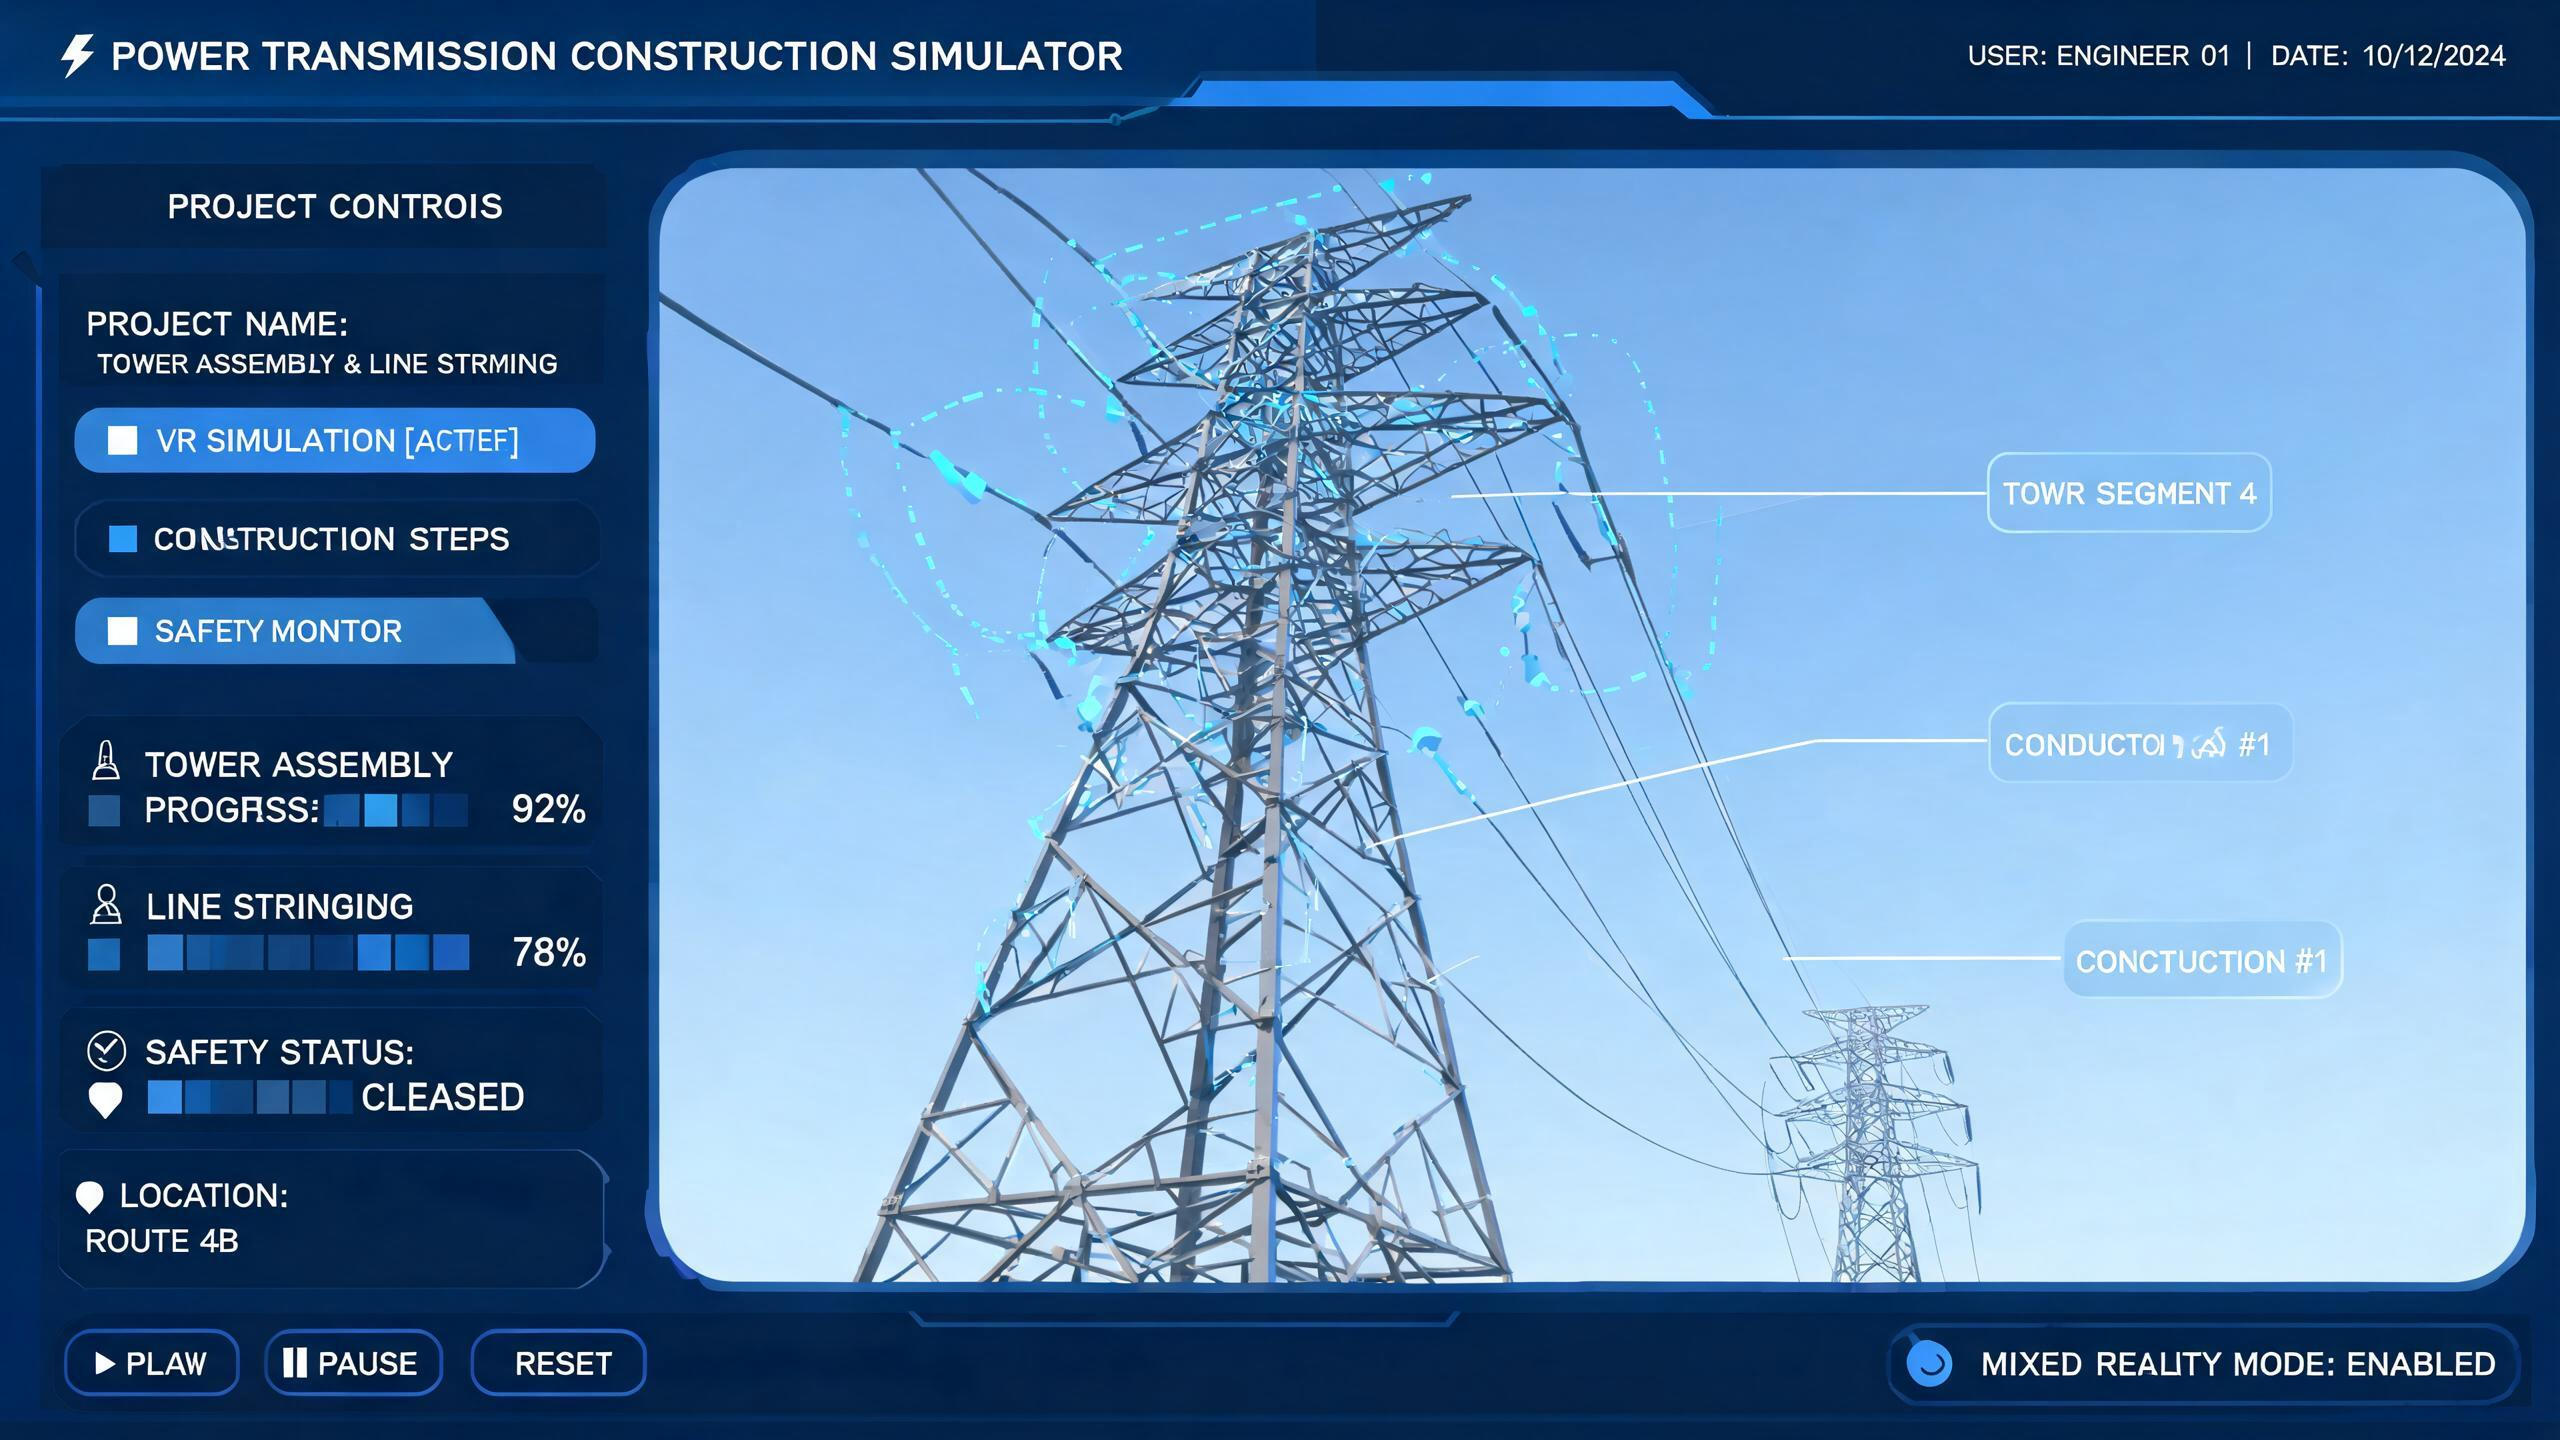
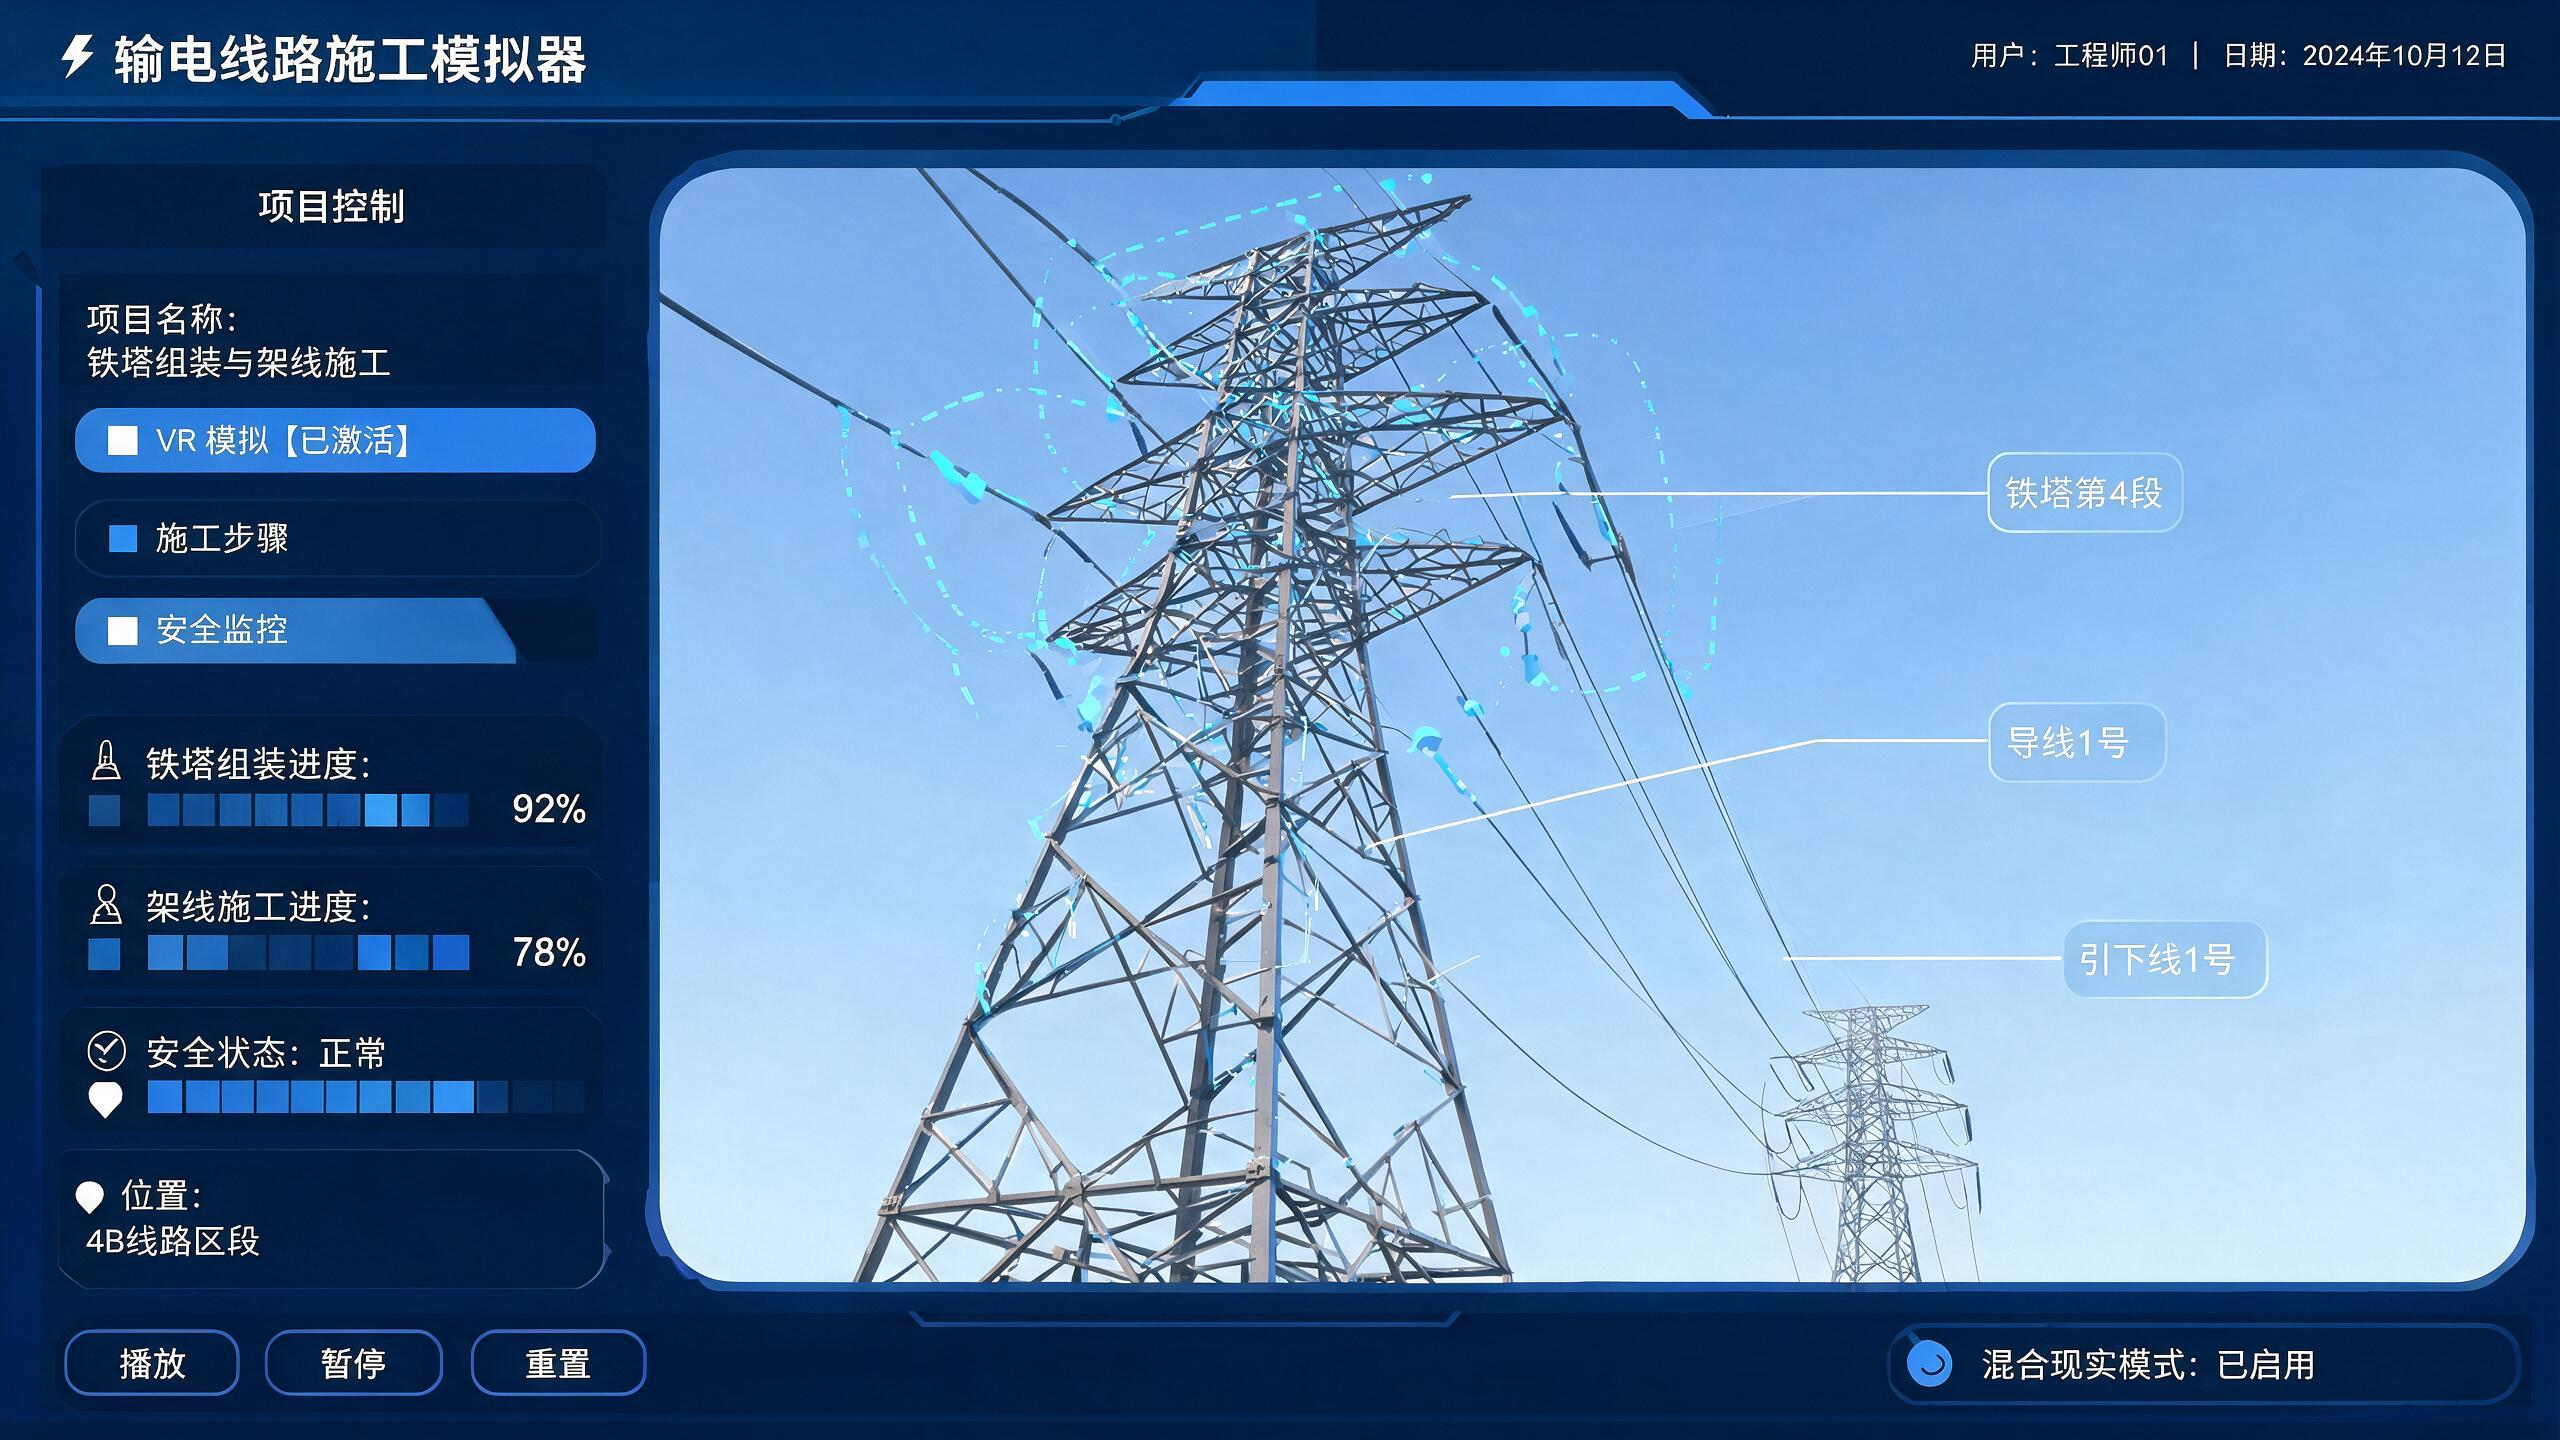
feat: 文鳐系列 8 张解决方案宣传图替换为纯中文 AI 生成图
- 使用 AI 提示词生成 2560x1440 高清专业暗色科技风产品宣传图（全部中文 UI）
- 替换图：solution_wind_om / wind_management / transport_v2 / solar_management
         / health_monitor / design_platform / control_center / construction_sim
- 修复施工仿真图标注：去除重复 2 号相线，改为 OPGW 复合地线 + 上①中②下③三相整洁标注
- app.py：挂载静态文件 /assets/ + 增加 /、/admin 路由，确保 zn-promo.html 可直接访问
- 修复 zn-promo.html 页面问题
- .gitignore：新增忽略本地图片处理脚本、备份图、截图等中间产物

diff --git a/zn-promo/zn-promo.html b/zn-promo/zn-promo.html
@@ -401,6 +401,13 @@
     .product-tab .tab-icon {
       font-size: 10px; color: var(--accent-gold); transition: all 0.3s;
     }
+    .product-tab img.tab-icon {
+      width: 18px; height: 18px; object-fit: contain; display: inline-block;
+      filter: brightness(0) invert(1);
+    }
+    .product-tab.active img.tab-icon {
+      filter: brightness(0) invert(0);
+    }
     .product-tab:hover {
       border-color: var(--accent-cyan); color: var(--accent-cyan);
       box-shadow: 0 0 20px rgba(34, 211, 238, 0.15);
@@ -789,7 +796,7 @@
         <div class="platform-body">
           <span class="platform-tag">可信数据空间</span>
           <h3 class="platform-title">可信数据空间 · 数据资产平台</h3>
-          <p class="platform-desc">依托中南数智自主研发的可信数据空间技术底座，结合电力工程业务场景定制化开发，实现数据全流程可信管控与价值挖掘，保障数据主权与安全共享。</p>
+          <p class="platform-desc">基于可信数据空间技术底座，结合电力工程业务场景定制化开发，实现数据全流程可信管控与价值挖掘，保障数据主权与安全共享。</p>
           <div class="platform-features">
             <span>数据注册编目</span><span>质量管控</span><span>主权管理</span><span>区块链存证</span>
           </div>
@@ -822,10 +829,10 @@
     <!-- 三大系列 Tab 切换 -->
     <div class="product-tabs">
       <button class="product-tab active" data-ptab="hardware">
-        <span class="tab-icon">&#9670;</span>玄武硬件
+        <img class="tab-icon" src="./assets/玄武logo.png" alt="玄武">玄武硬件
       </button>
       <button class="product-tab" data-ptab="software">
-        <span class="tab-icon">&#9671;</span>文鳐软件
+        <img class="tab-icon" src="./assets/文鳐logo.png" alt="文鳐">文鳐软件
       </button>
       <button class="product-tab" data-ptab="solutions">
         <span class="tab-icon">&#9672;</span>行业方案
